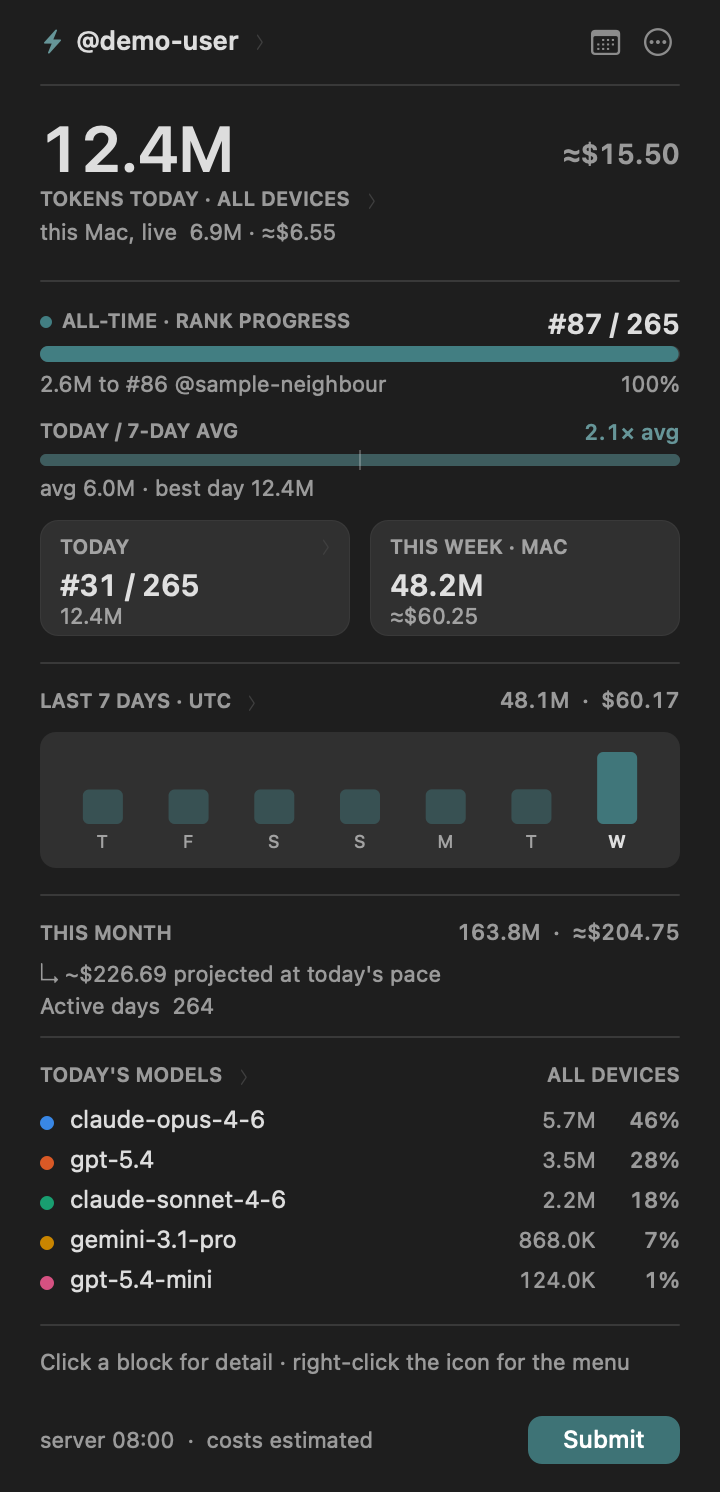
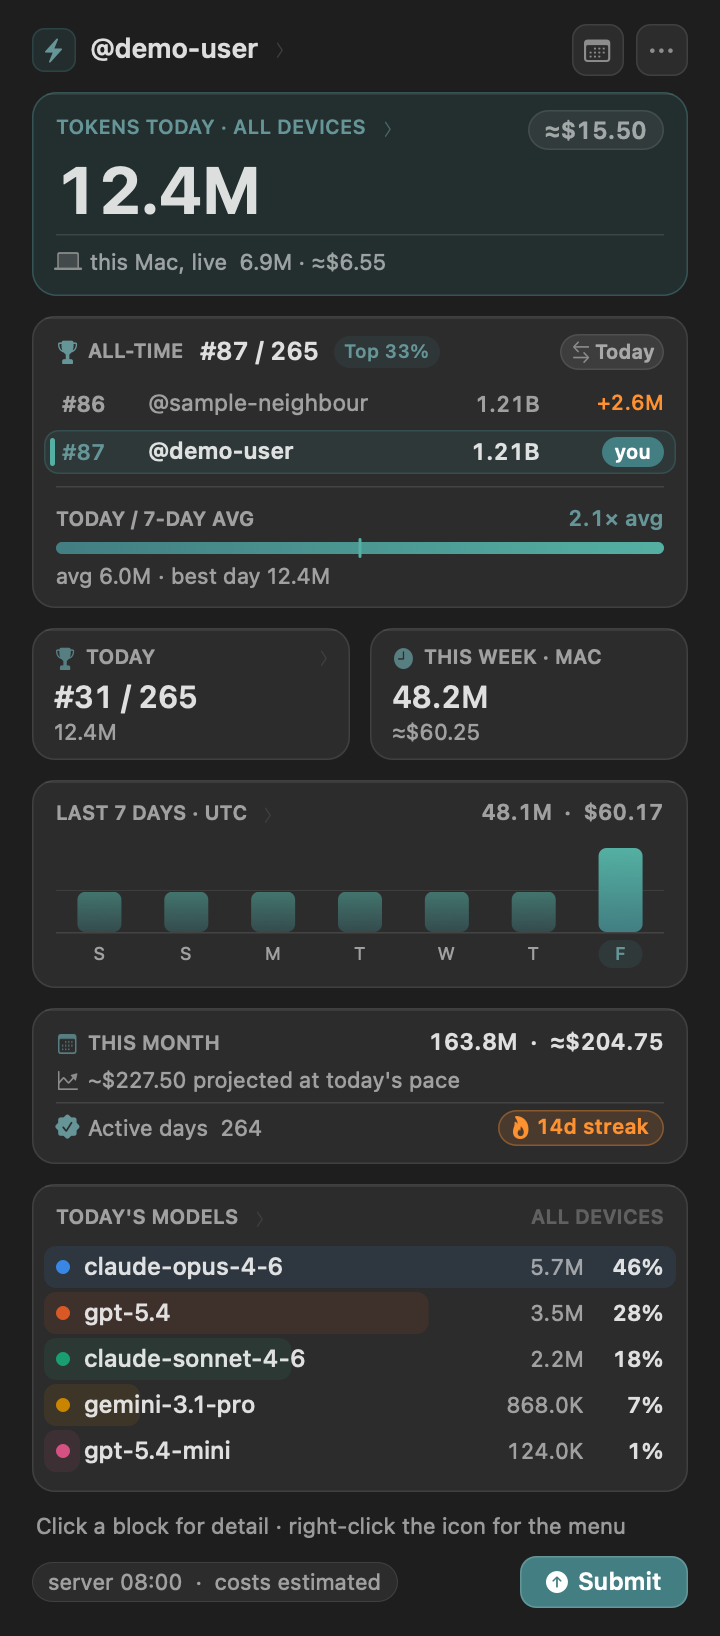
Refresh bilingual README screenshots for v1.12.0

diff --git a/docs/SCREENSHOTS.md b/docs/SCREENSHOTS.md
@@ -1,36 +1,34 @@
 # README screenshot provenance
 
-The English and Chinese READMEs use 2× native AppKit offscreen renders of a **TokensBar v1.11.1 (build 18)** source build on macOS. They are not design mockups. The rendering-specific code creates a 2× bitmap at the original view size; it does not upscale an existing image or alter the live interface.
+The English and Chinese READMEs use 2× native AppKit offscreen renders of **TokensBar v1.12.0 (build 19)** on macOS. They are not design mockups. The rendering-specific code creates a 2× bitmap at the original view size; it does not upscale an existing image or alter the live interface.
 
 The renders use synthetic `demo-user` profile, leaderboard and CLI data. No real account, login, read token, Keychain credential or production API request is used. The diagnostic renderer supplies a fixed backing surface instead of the live popover's translucent material; these images are not desktop screen captures or interactive acceptance tests.
 
 ## Current images
 
-[Successful macOS build and rendering run](https://github.com/lucaisgrowing/tokens-menubar/actions/runs/40654008694) — 2026-10-28, macOS 26.6.2 (25G83).
+[Successful macOS build and rendering run](https://github.com/lucaisgrowing/tokens-menubar/actions/runs/45957843399) — 2026-11-27, macOS 26.7.2 (25G332).
 
-- Rendered source: commit `1a784f41450fa905663fe760c29bd9ba5675c320`, based on the v1.11.1 main branch, with the snapshot-only 2× bitmap change. This is a rebuilt candidate, not the previously published release executable.
-- Bundle version checked: `1.11.1`. The build, bundle verification, regression tests and native accent/contrast checks passed.
[1 lines of base64/hex data omitted]
+- Rendered source: commit `bf6a1de` (`v1.12.0`).
+- Bundle version checked: `1.12.0` (build `19`). The build, bundle verification, 101 pure-Swift regression checks and 10 native accent/contrast checks passed.
[1 lines of base64/hex data omitted]
 - English images: `docs/*.png` in the table below. Chinese images: the matching names under `docs/zh/`.
 
 | File | View | Native PNG dimensions |
 | --- | --- | --- |
-| `menu.png` | Main panel, light | 720 × 1492 |
-| `menu-dark.png` | Main panel, dark | 720 × 1492 |
-| `panel-actions.png` | Actions & Settings, light | 720 × 960 |
-| `panel-actions-dark.png` | Actions & Settings, dark | 720 × 960 |
+| `menu.png` | Main panel, light | 720 × 1636 |
+| `menu-dark.png` | Main panel, dark | 720 × 1636 |
+| `panel-actions.png` | Actions & Settings, light | 720 × 1154 |
+| `panel-actions-dark.png` | Actions & Settings, dark | 720 × 1154 |
 | `chart-today-tokens.png` | Today's models by tokens, light | 760 × 748 |
 | `chart-lifetime-cost.png` | Lifetime models by cost, dark | 760 × 748 |
 | `contributions.png` | Annual contributions, light | 1496 × 432 |
 
-The main panel and actions page cover both appearances; the chart examples illustrate different periods/metrics and appearances. The Chinese README links to Chinese UI renders rather than reusing the English UI images. Icon and donation QR assets were unchanged. In the contributions view the first two month labels overlap when the rolling year starts close to a month boundary; this is an existing view-layout limitation, not an image-resizing artifact.
+The main panel and actions page cover both appearances; the chart examples illustrate different periods/metrics and appearances. The Chinese README links to Chinese UI renders rather than reusing the English UI images.
 
 ## Reproduce
 
 Run the [build workflow](../.github/workflows/build.yml) for the desired source ref. Its macOS job builds a candidate app and calls [`Tools/render-readme-snapshots.sh`](../Tools/render-readme-snapshots.sh), which starts the loopback-only [`readme-fixture-server.py`](../Tools/readme-fixture-server.py), installs a temporary synthetic `tokens submit --dry-run` responder, and invokes the app's diagnostic PNG commands in each language. Temporary config and CLI files are removed on exit; the script refuses to replace pre-existing ones. Run only on a disposable runner, not a personal Mac. Download `TokensBar-candidate-snapshots` from the completed workflow and inspect the images before replacing the English files in `docs/` and Chinese files in `docs/zh/`. The generated data covers the year ending on the rendering date, so later runs can differ without a UI change.
 
[1 lines of base64/hex data omitted]
-
 ## 中文说明
 
-这 14 张图片由 1.11.1 源码构建的 App 在 macOS 上以 2× 分辨率原生离屏渲染，使用虚构的 `demo-user` API／CLI 数据。截图模式使用固定底色代替实际弹层材质；它不是桌面截图，也不代替真实账号、钥匙串、CLI 和界面交互的人工验收。贡献图在滚动年份靠近月初时，前两个标签可能重叠，这是原界面的布局问题，不是图片放大造成的。
+这 14 张图片由 **1.12.0** 源码构建的 App 在 macOS 上通过 GitHub Actions 以 2× 分辨率原生离屏渲染，使用虚构的 `demo-user` API／CLI 数据。截图模式使用固定底色代替实际弹层材质；它不是桌面截图，也不代替真实账号、钥匙串、CLI 和界面交互的人工验收。

diff --git a/README.md b/README.md
@@ -34,7 +34,7 @@ Plain Swift, compiled with `swiftc`. No Xcode project, no dependencies beyond sy
 
 [Download v1.12.0](https://github.com/lucaisgrowing/tokens-menubar/releases/tag/v1.12.0) · [Full changelog](CHANGELOG.md)
 
-The README images below are 2× native AppKit offscreen renders of a **1.11.1** source build on macOS, using synthetic `demo-user` API/CLI data—not a real account or Linux mockup. The snapshot-only change increases render resolution without changing the app interface. The diagnostic renderer uses a fixed backing surface in place of the live popover material. English and Chinese images are rendered separately. [Reproduction and verification](docs/SCREENSHOTS.md).
+The README images below are 2× native AppKit offscreen renders of **TokensBar 1.12.0** on macOS, using synthetic `demo-user` API/CLI data—not a real account or Linux mockup. The diagnostic renderer uses a fixed backing surface in place of the live popover material. English and Chinese images are rendered separately. [Reproduction and verification](docs/SCREENSHOTS.md).
 
 > **Apple silicon:** use a native **arm64** `tokens` CLI, installed through Apple silicon Homebrew (`brew install owo-network/brew/tokens`). An Intel-only CLI needs Rosetta to run; TokensBar prefers a native installation when available and reports an unlaunchable CLI rather than a bare "submit failed".
 
@@ -111,8 +111,6 @@ The seven-day bars in the panel — or the **Active days** row in the menu — o
   <img src="docs/contributions.png" width="640" alt="A year of daily token activity as a heat grid">
 </p>
 
-The contributions screenshot reflects the current source; the month-label spacing fix is not yet in the v1.11.1 release.
-
 The toggle in the corner switches what the readout breaks the day down by — **Models**, **Clients** or **Cost**. Cost also recolours the grid: token intensity comes from the API, while the cost view derives its own levels from the quartiles of the daily spend, so a cheap-but-busy day and an expensive-but-quiet one look different.
 
 The ramp is one hue, light to dark, with separate steps for light and dark mode; days with any usage never fall back to the empty-cell colour.
@@ -170,7 +168,7 @@ For private accounts, create a **read token** in tokens.ci Settings, then choose
 
 ### Offline checks
 
-Run `Tests/run.sh` with Swift installed. This tests the actual Foundation parser/formatting/error helpers; it needs neither a CLI login nor a live API. The v1.11.1 macOS release workflow passed those 45 checks plus 10 native light/dark accent and contrast checks with a blue system preference, universal AppKit/Security compilation, bundle metadata checks and ad-hoc signature verification. The separate README snapshot workflow renders the published binary on macOS with synthetic local data. Neither replaces interactive UI, Keychain, private-account or real-CLI testing; those checks remain manual. Use `./build.sh --universal` and `--panel-probe` when checking changes on a Mac.
+Run `Tests/run.sh` with Swift installed. This tests the actual Foundation parser/formatting/error helpers; it needs neither a CLI login nor a live API. The v1.12.0 macOS release workflow passed those 101 checks plus 10 native light/dark accent and contrast checks with a blue system preference, universal AppKit/Security compilation, bundle metadata checks and ad-hoc signature verification. The separate README snapshot workflow renders the published binary on macOS with synthetic local data. Neither replaces interactive UI, Keychain, private-account or real-CLI testing; those checks remain manual. Use `./build.sh --universal` and `--panel-probe` when checking changes on a Mac.
 
 ## Configuration
 
